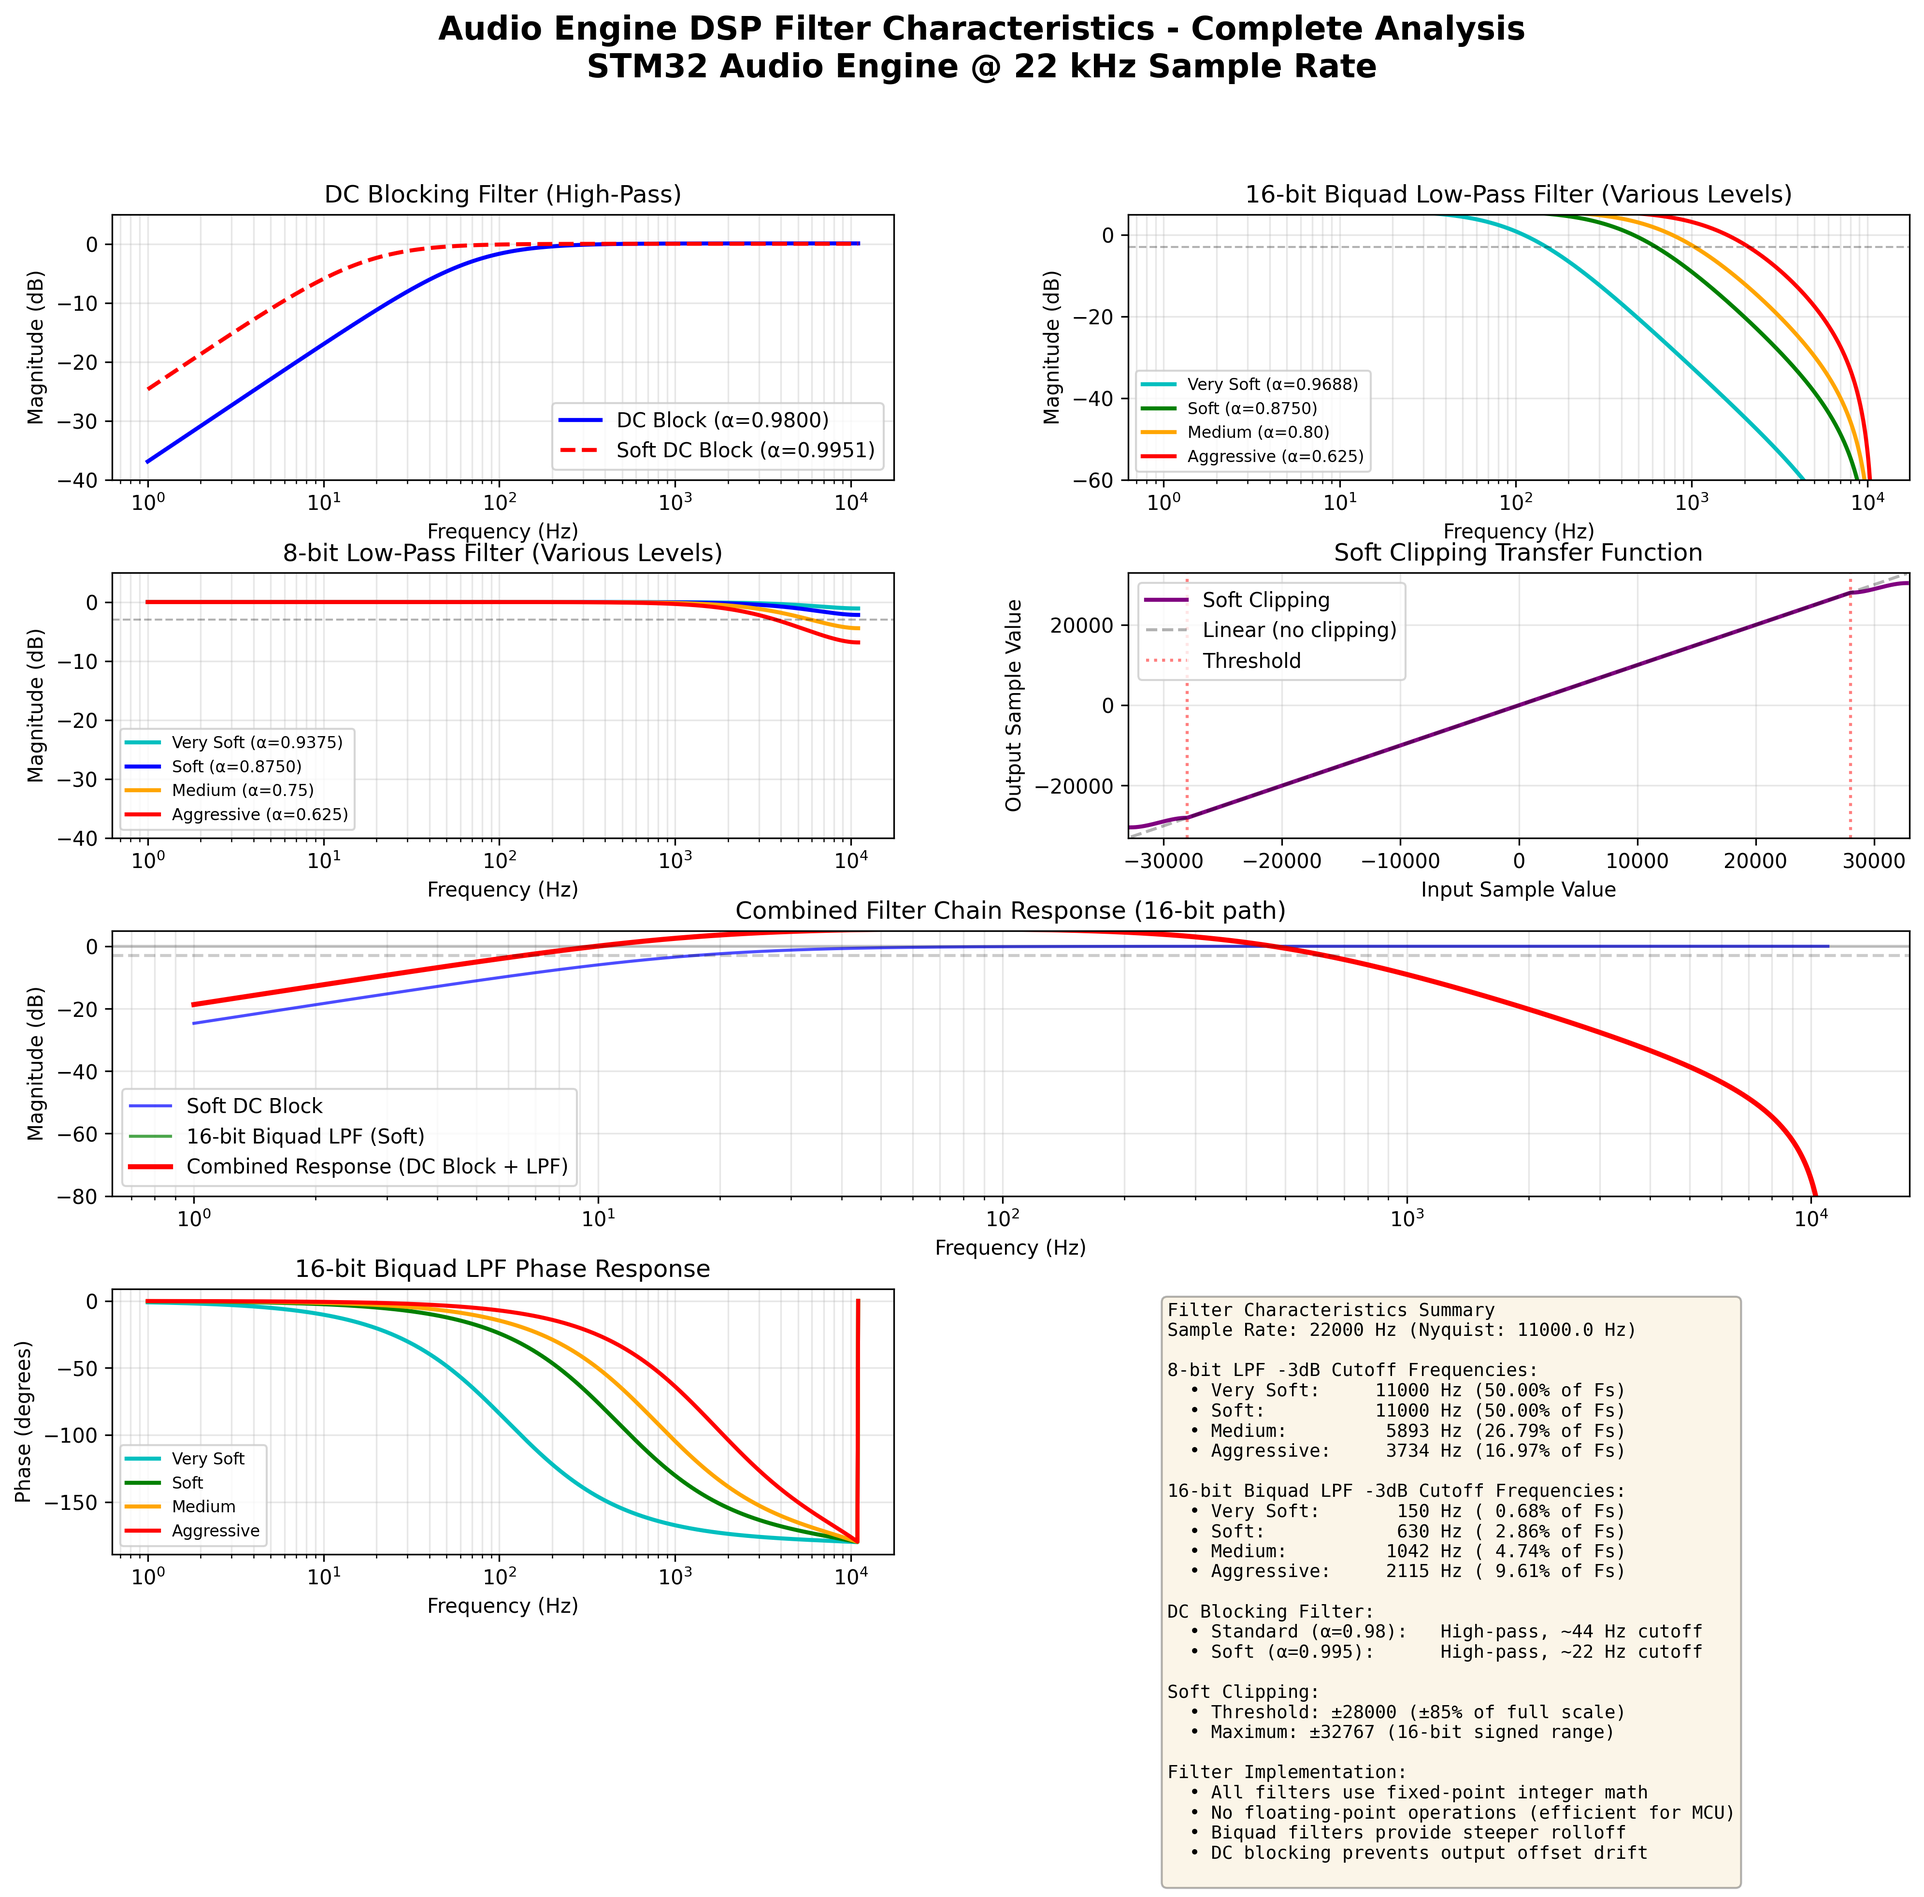
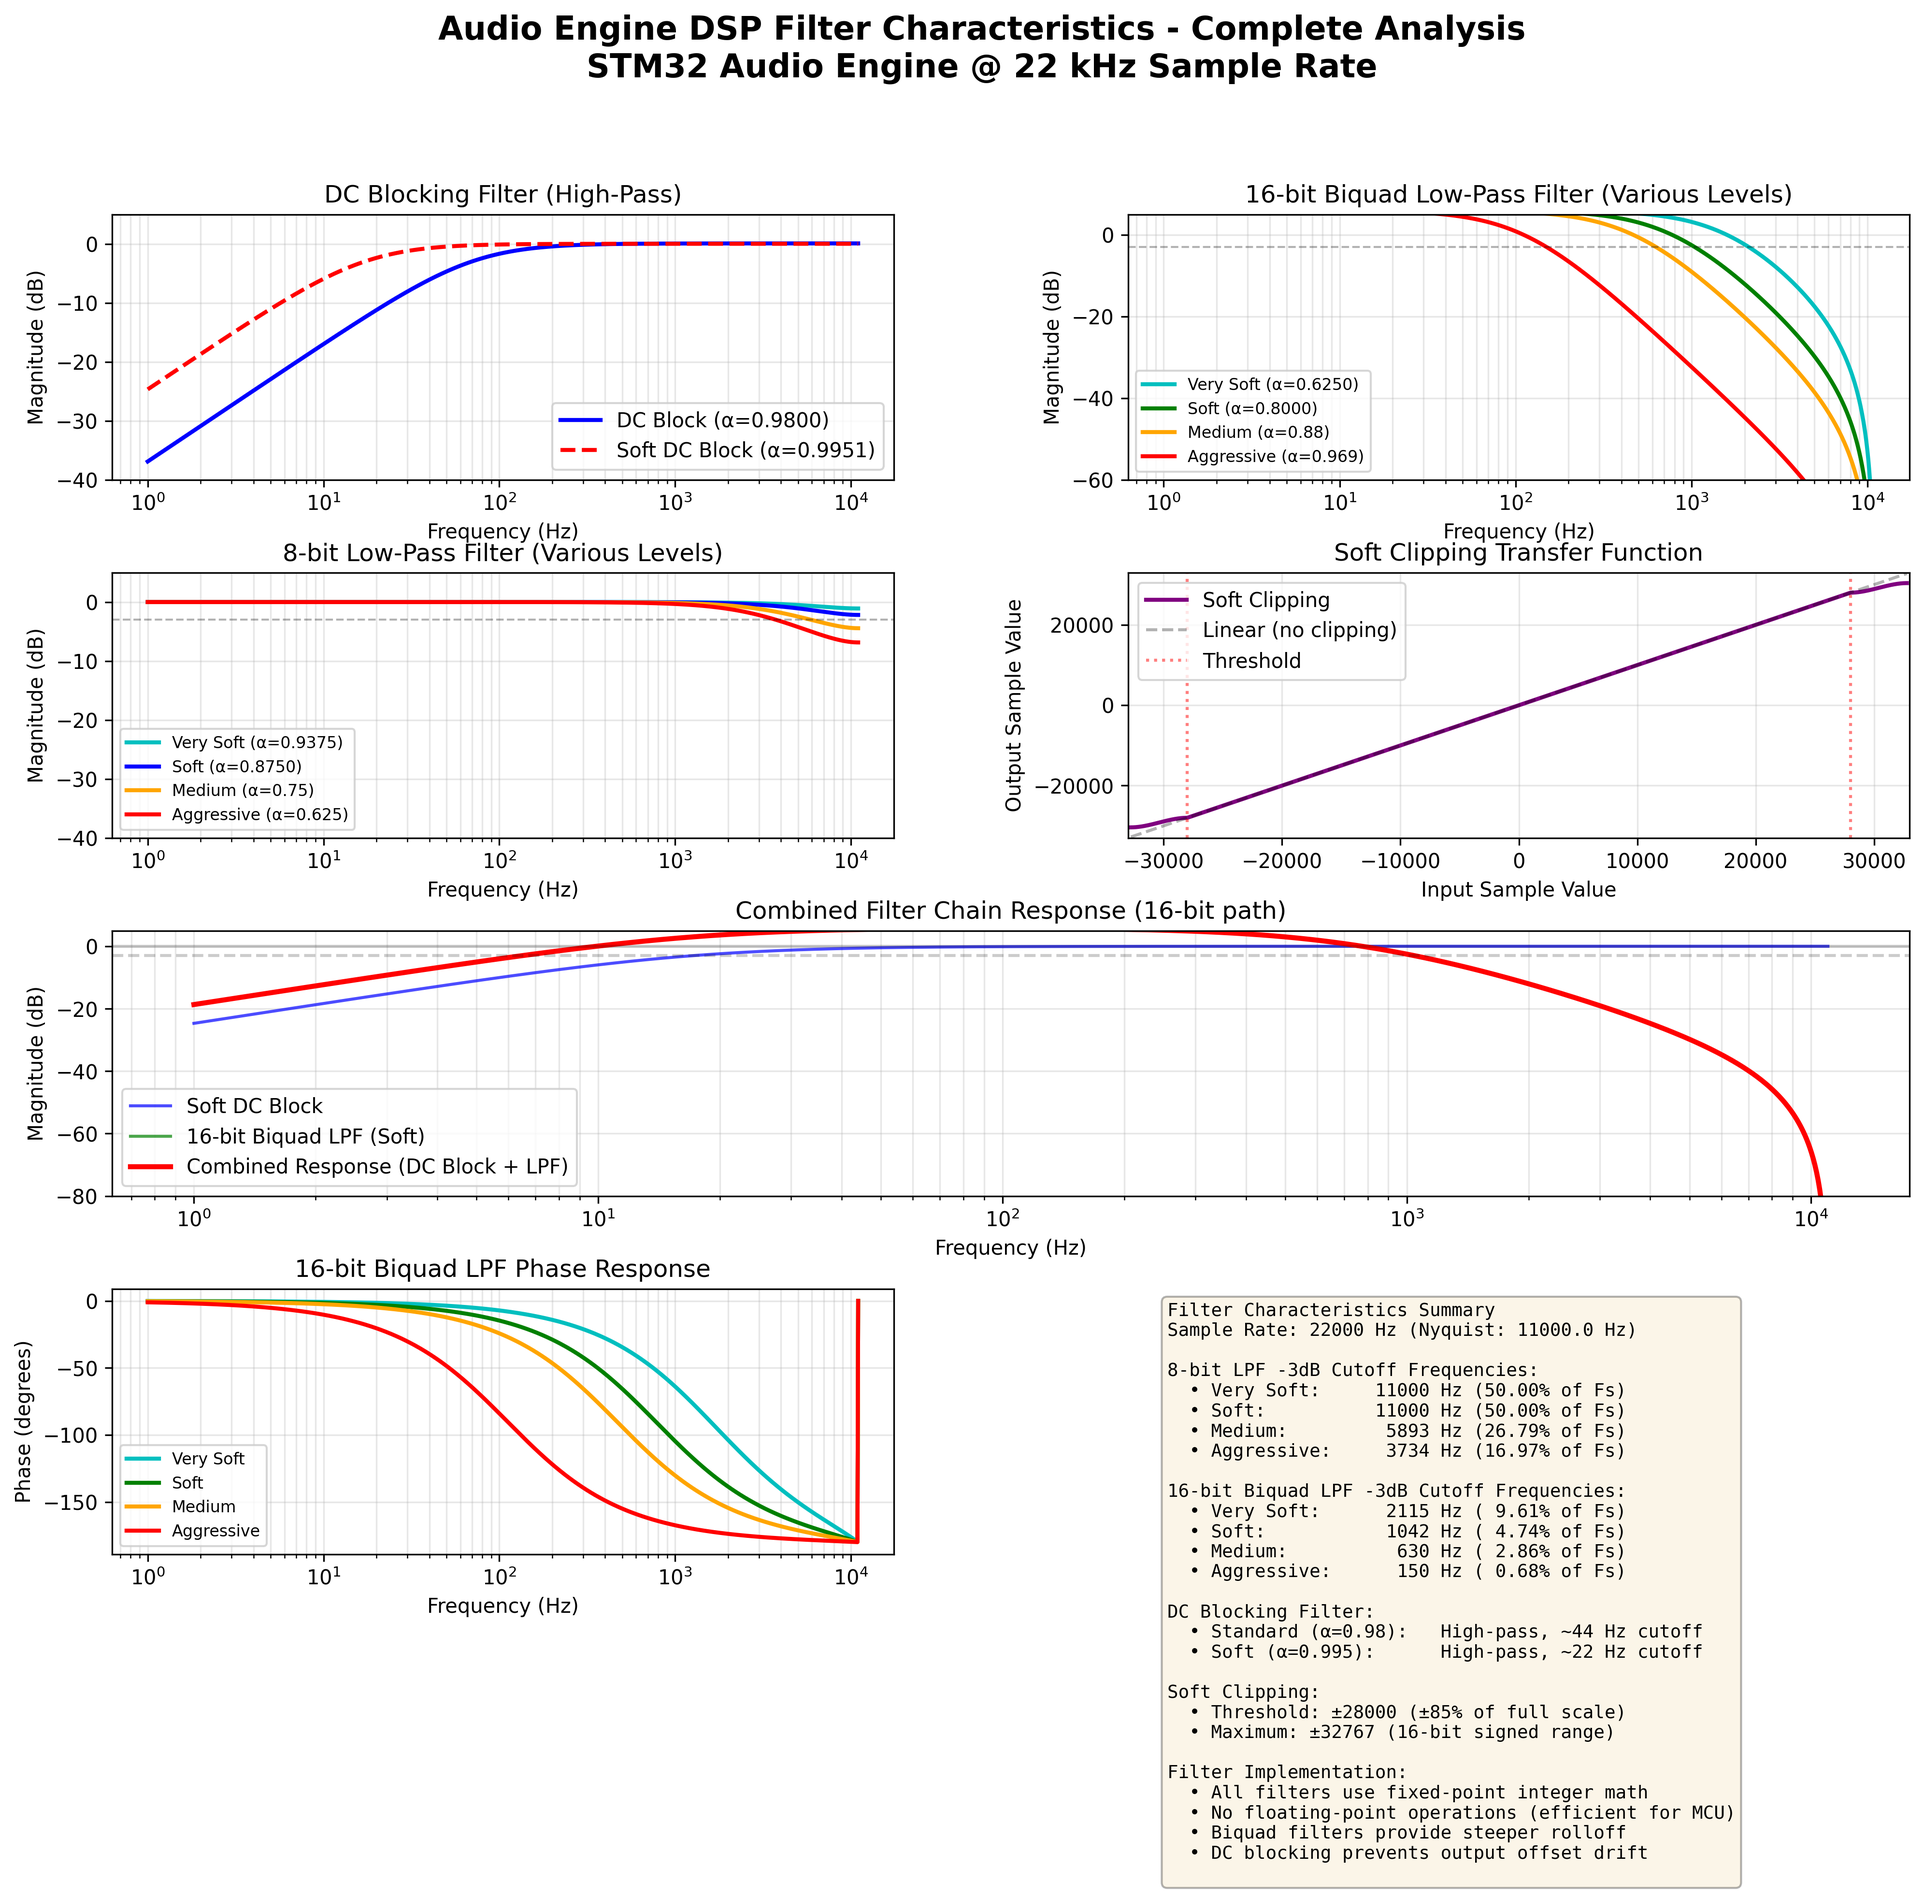
Updated documentation and enhanced filter settings for improved audio quality. Updated graphs to reflect new filter configurations.

diff --git a/Application/CR2-VSCode/Core/Src/main.c b/Application/CR2-VSCode/Core/Src/main.c
@@ -170,9 +170,11 @@ int main(void)
   // FilterConfig_TypeDef filter_cfg;
 
   filter_cfg.enable_16bit_biquad_lpf      = 1;
+  filter_cfg.enable_8bit_lpf  = 1;
+  filter_cfg.enable_soft_dc_filter_16bit  = 1;
 
-  SetLpfMakeupGain8Bit(0.5f);
-  SetLpf16BitLevel(LPF_Aggressive);
+  SetLpfMakeupGain8Bit(1.0f);
+  SetLpf16BitLevel(LPF_VerySoft);
   SetFilterConfig( &filter_cfg );
   /* USER CODE END 2 */
 
@@ -195,9 +197,9 @@ int main(void)
     // PlaySample( handpan16bm, HANDPAN16BM_SZ,
     //     I2S_AUDIOFREQ_44K, 16, Mode_mono, LPF_Medium );
     // WaitForSampleEnd();
-    PlaySample( magic_gong44k, MAGIC_GONG44K_SZ,
-        I2S_AUDIOFREQ_44K, 16, Mode_mono, LPF_Medium );
-    WaitForSampleEnd();
+    // PlaySample( magic_gong44k, MAGIC_GONG44K_SZ,
+    //     I2S_AUDIOFREQ_44K, 16, Mode_mono, LPF_Medium );
+    // WaitForSampleEnd();
     // PlaySample( custom_tritone16k, CUSTOM_TRITONE16K_SZ,
     //   I2S_AUDIOFREQ_16K, 16, Mode_mono, LPF_Medium );
     // WaitForSampleEnd();
@@ -207,16 +209,12 @@ int main(void)
     //     I2S_AUDIOFREQ_32K, 16, Mode_mono, LPF_Soft );
     // WaitForSampleEnd();
     // PlaySample( rooster8b2c, ROOSTER8B2C_SZ,
-    //    I2S_AUDIOFREQ_22K, 8, Mode_stereo, LPF_Medium );
-    // HAL_Delay( 1000 );
-    // PausePlayback();
-    // HAL_Delay( 1000 );
-    // ResumePlayback();
+    // I2S_AUDIOFREQ_22K, 8, Mode_stereo, LPF_VerySoft );
     // WaitForSampleEnd();
 
-    // PlaySample( harmony8b, HARMONY8B_SZ,
-    //     I2S_AUDIOFREQ_11K, 8, Mode_mono, LPF_Medium );
-    // WaitForSampleEnd();
+    PlaySample( harmony8b, HARMONY8B_SZ,
+        I2S_AUDIOFREQ_11K, 8, Mode_mono, LPF_Aggressive );
+    WaitForSampleEnd();
 
     // PlaySample( tt_arrival, TT_ARRIVAL_SZ, I2S_AUDIOFREQ_11K, 16, Mode_mono, LPF_Medium );
     // PlaySample( KillBill11k, KILLBILL11K_SZ,

diff --git a/Application/CR2-VSCode/Core/Libraries/audio_engine.h b/Application/CR2-VSCode/Core/Libraries/audio_engine.h
@@ -52,14 +52,14 @@ extern "C" {
 #define SOFT_DC_FILTER_ALPHA  65216    // 0.995 in fixed-point (65216/65536)
 
 /* Biquad low-pass filter for 16-bit samples */
-#define LPF_16BIT_ALPHA       57344    // 0.875 - gentle filtering (default)
+#define LPF_16BIT_ALPHA       52429    // ~0.80 - gentle filtering (default)
 
 /* 16-bit biquad low-pass filter aggressiveness levels (alpha coefficients) */
-/* Wider range while keeping aggressive end aligned with 8-bit (0.625) */
-#define LPF_16BIT_VERY_SOFT   63488    // ~0.97 - very gentle filtering
-#define LPF_16BIT_SOFT        57344    // 0.875 - gentle filtering
-#define LPF_16BIT_MEDIUM      52429    // ~0.80 - balanced filtering
-#define LPF_16BIT_AGGRESSIVE  40960    // 0.625 - strong filtering (unchanged)
+/* Higher alpha is heavier filtering for this biquad, so values are ordered light -> heavy. */
+#define LPF_16BIT_VERY_SOFT   40960    // 0.625 - light filtering / highest cutoff
+#define LPF_16BIT_SOFT        52429    // ~0.80 - gentle filtering
+#define LPF_16BIT_MEDIUM      57344    // 0.875 - balanced filtering
+#define LPF_16BIT_AGGRESSIVE  63488    // ~0.97 - strong filtering / lowest cutoff
 
 /* Low-pass filter for 8-bit samples */
 #define LPF_8BIT_SHIFT        16       // Right shift for fixed-point division

diff --git a/Application/CR2-VSCode/visualize_filters_enhanced.py b/Application/CR2-VSCode/visualize_filters_enhanced.py
@@ -12,11 +12,11 @@ from matplotlib.gridspec import GridSpec
 DC_FILTER_ALPHA = 64225 / 65536  # 0.98
 SOFT_DC_FILTER_ALPHA = 65216 / 65536  # 0.995
 
-# 16-bit Biquad LPF levels (wider range, aggressive end unchanged at 0.625)
-LPF_16BIT_VERY_SOFT = 63488 / 65536  # ~0.97 - very gentle filtering
-LPF_16BIT_SOFT = 57344 / 65536  # 0.875 - gentle filtering
-LPF_16BIT_MEDIUM = 52429 / 65536  # ~0.80 - balanced filtering
-LPF_16BIT_AGGRESSIVE = 40960 / 65536  # 0.625 - strong filtering (unchanged)
+# 16-bit Biquad LPF levels (higher alpha = stronger filtering)
+LPF_16BIT_VERY_SOFT = 40960 / 65536  # 0.625 - lightest filtering
+LPF_16BIT_SOFT = 52429 / 65536  # ~0.80 - gentle filtering
+LPF_16BIT_MEDIUM = 57344 / 65536  # 0.875 - balanced filtering
+LPF_16BIT_AGGRESSIVE = 63488 / 65536  # ~0.97 - strongest filtering
 
 # 8-bit LPF levels
 LPF_VERY_SOFT = 61440 / 65536  # 0.9375

diff --git a/Application/CR2-VSCode/visualize_filters.py b/Application/CR2-VSCode/visualize_filters.py
@@ -11,9 +11,14 @@ from matplotlib.gridspec import GridSpec
 # Filter coefficients from audio_engine.h
 DC_FILTER_ALPHA = 64225 / 65536  # 0.98
 SOFT_DC_FILTER_ALPHA = 65216 / 65536  # 0.995
-LPF_16BIT_ALPHA = 57344 / 65536  # 0.875
 
-# 8-bit LPF levels
+# 16-bit Biquad LPF levels (higher alpha = stronger filtering)
+LPF_16BIT_VERY_SOFT = 40960 / 65536  # 0.625 - lightest filtering
+LPF_16BIT_SOFT = 52429 / 65536  # ~0.80 - gentle filtering
+LPF_16BIT_MEDIUM = 57344 / 65536  # 0.875 - balanced filtering
+LPF_16BIT_AGGRESSIVE = 63488 / 65536  # ~0.97 - strongest filtering
+
+# 8-bit LPF levels (one-pole filter, narrower range for stability)
 LPF_VERY_SOFT = 61440 / 65536  # 0.9375
 LPF_SOFT = 57344 / 65536  # 0.875
 LPF_MEDIUM = 49152 / 65536  # 0.75

diff --git a/Application/CR2-VSCode/AUDIO_ENGINE_MANUAL.md b/Application/CR2-VSCode/AUDIO_ENGINE_MANUAL.md
@@ -584,23 +584,24 @@ The audio engine provides these implementations that will be called automaticall
 
 ### 16-bit LPF Aggressiveness Levels
 
-The 16-bit biquad low-pass filter has 4 configurable levels, each with a different feedback coefficient (α) that determines cutoff frequency and filtering strength.
+The 16-bit biquad uses higher α for heavier filtering (opposite direction from the 8-bit one-pole), so the level names are mapped from lowest to highest α to stay consistent with the 8-bit naming.
 
-| Level | Alpha | Cutoff Freq | Use Case |
-|-------|-------|------------|----------|
-| **Very Soft** | ~0.97 | ~8700 Hz | Minimal filtering, preserve brightness |
-| **Soft** | 0.875 | ~6800 Hz | Gentle filtering, good for speech (default) |
-| **Medium** | ~0.80 | ~5900 Hz | Balanced filtering |
-| **Aggressive** | 0.625 | ~4100 Hz | Strong filtering, suppress high noise |
+| Level | Alpha | Notes |
+|-------|-------|-------|
+| **Very Soft** | 0.625 | Lightest filtering / brightest tone |
+| **Soft** | ~0.80 | Gentle filtering |
+| **Medium** | 0.875 | Balanced filtering |
+| **Aggressive** | ~0.97 | Strongest filtering / darkest tone |
 
-**Why 0.625 is Special:**
-- The "Aggressive" endpoint (0.625) is aligned with the 8-bit LPF aggressive level
-- This ensures consistent behavior across both audio paths
-- Warm-up (8 passes) eliminates startup artifacts at this level
+- Warm-up (8 passes) still runs to suppress startup artifacts at the most aggressive setting.
 
 ### 8-bit LPF Aggressiveness Levels
 
-8-bit audio uses separate alpha coefficients (lower sample quality allows more aggressive filtering).
+8-bit audio uses a **first-order (one-pole) filter** rather than a biquad. This architecture avoids feedback loop instability on quantized 8-bit data. As a result, the alpha range is narrower than the 16-bit biquad to maintain filter stability.
+
+**Filter Architecture:**
+- **One-pole formula**: `output = (α × input + (1 − α) × prev_output) × makeup_gain`
+- **Why narrower range**: One-pole filters at low alpha (high filtering) can amplify quantization noise; biquads are more robust to this.
 
 | Level | Alpha | Cutoff Freq |
 |-------|-------|------------|
@@ -608,6 +609,9 @@ The 16-bit biquad low-pass filter has 4 configurable levels, each with a differe
 | **Soft** | 0.875 | ~2800 Hz |
 | **Medium** | 0.75 | ~2300 Hz |
 | **Aggressive** | 0.625 | ~1800 Hz |
+
+**Note on Range Differences:**  
+The 16-bit biquad (α: 0.625 → 0.97) and 8-bit one-pole (α: 0.625 → 0.9375) do *not* span the same range. This is intentional: the biquad's wider range is safe for 16-bit data, while the one-pole's narrower range prevents instability on 8-bit input. Both filters provide LPF_VerySoft, LPF_Soft, LPF_Medium, and LPF_Aggressive presets for user consistency, but their underlying coefficients differ.
 
 ### DC Blocking Filter
 
